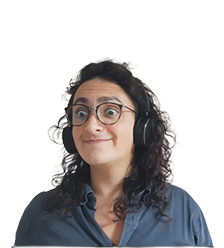
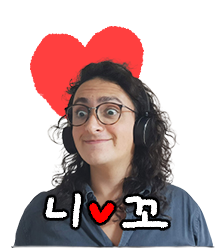
change NicoSenpaiPng

Changed region(s): [[0.125, 0.0847, 0.6562, 0.4798], [0.1875, 0.7621, 0.7812, 0.9315]]

diff --git a/src/components/window.tsx b/src/components/window.tsx
@@ -52,12 +52,12 @@ const WindowImg = styled(motion.img)`
 `;
 
 const NicoSenpaiImg = styled.img.attrs({ src: nicoSenpaiSrc })`
-    width: 130%;
+    width: 122%;
     position: absolute;
     z-index: 3;
     transform: rotateZ(-15deg);
-    top: 12%;
-    left: 35%;
+    top: 32%;
+    left: 45%;
 
     -webkit-user-drag: none;
     -khtml-user-drag: none;
@@ -97,6 +97,12 @@ const ExitComp = styled.div`
     }
 `;
 
+const NicoAnchor = styled.a`
+    :hover {
+        cursor: pointer;
+    }
+`;
+
 const WindowContainer = () => {
     const [windowDisplay, setWindowDisplay] =
         useRecoilState(windowDisplayState);
@@ -112,7 +118,6 @@ const WindowContainer = () => {
     };
 
     React.useEffect(() => {
-        console.log(windowDisplay);
         if (windowDisplay) {
             return windowOpenSFX();
         }
@@ -125,7 +130,12 @@ const WindowContainer = () => {
             <AnimatePresence>
                 {windowDisplay ? (
                     <RelativeWrapper>
-                        <NicoSenpaiImg />
+                        <NicoAnchor
+                            target="_blanck"
+                            href="https://nomadcoders.co/"
+                        >
+                            <NicoSenpaiImg />
+                        </NicoAnchor>
                         <WindowImg src={windowSrc}></WindowImg>
                         <ExitComp onClick={exitHandler} />
                     </RelativeWrapper>

diff --git a/src/App.tsx b/src/App.tsx
@@ -420,6 +420,10 @@ function App() {
             setFileDisplayToggle((prev) => !prev);
             if (lpPlayerDisplay) {
                 bgplayerClose();
+
+                if (windowDisplay) {
+                    setWindowDisplay((prev) => !prev);
+                }
                 return setLpPlayerDisplay((prev) => !prev);
             }
         }
